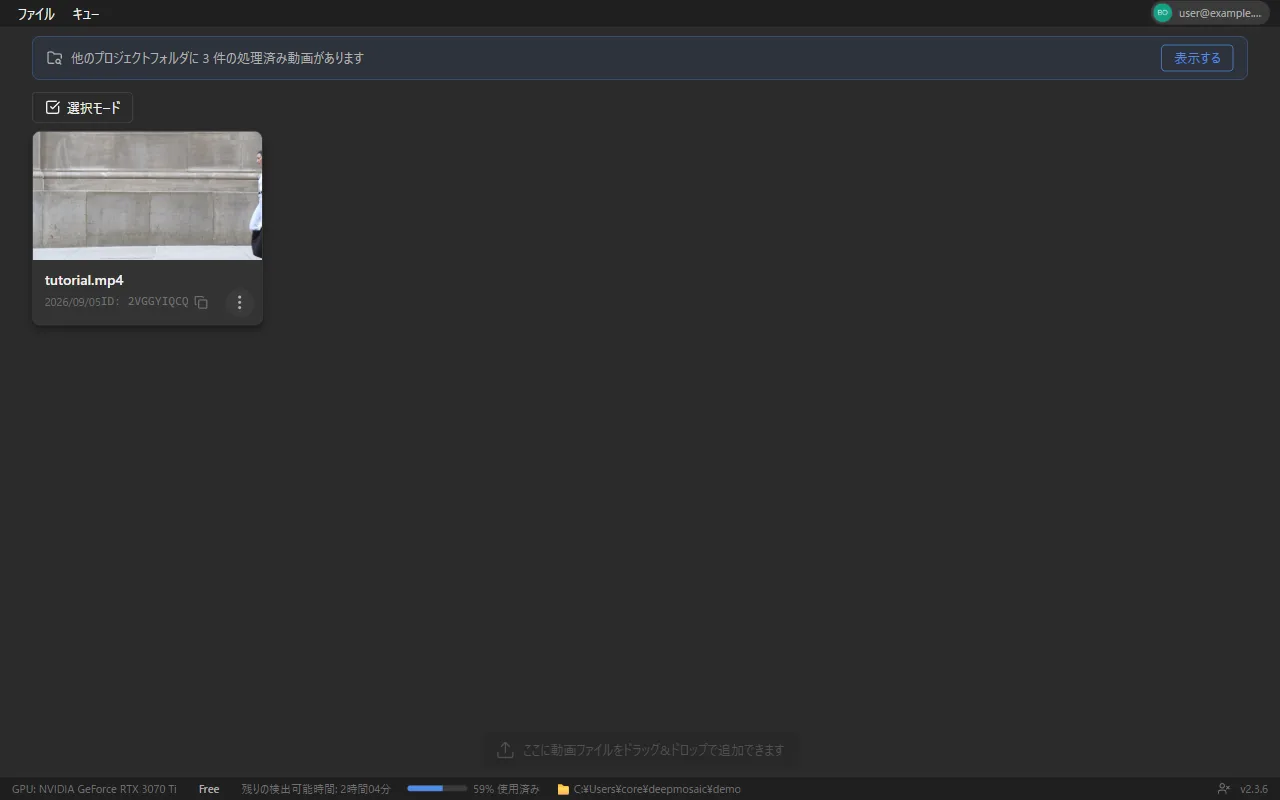
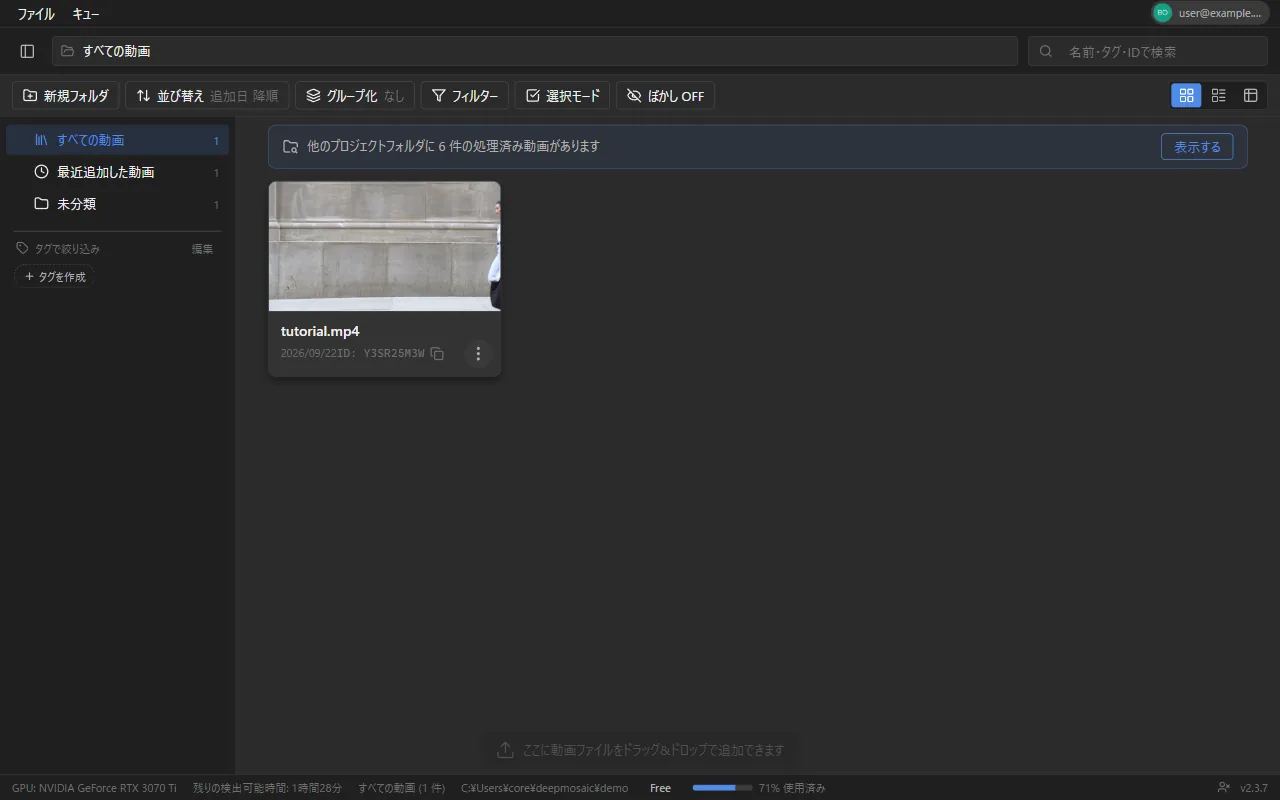
docs: T-383 HOME の再設計に合わせてスクリーンショットを再撮影し、表示形式の節を追加
- home / home-light / home-card-menu / home-select-mode を再撮影 (T-374〜T-382 の
  サイドバー・コマンドバー・ステータスバーが入った新 HOME)。
- home-tile (並べて表示) / home-detail (詳細) を新規追加。
- 第3章「動画の読み込み」に「表示形式」の節 (大アイコン / 並べて表示 / 詳細の定義表 +
  新規 2 枚の図) を追加。撮影 → optimize-images --apply → check-docs --fix-dims 済み。

diff --git a/_includes/docs/03-detect.html b/_includes/docs/03-detect.html
@@ -34,6 +34,30 @@ batch / queue は TICKET-SITE-44 で追加。定義表は `.kv` 部品 (src/app.
       <img src="/assets/img/screenshots/home.webp" alt="ホーム画面（処理済み動画一覧）" width="1280" height="800" loading="lazy" decoding="async" class="w-full rounded-[10px] border border-edge">
       <figcaption class="mt-2 text-[12.5px] text-ink-4">ホーム画面（処理済み動画一覧）。ドラッグ&amp;ドロップはこの画面が受け口になります</figcaption>
     </figure>
+    <h3 class="mt-6 text-[16px] font-bold text-ink">表示形式</h3>
+    <p>一覧の右上で表示形式を3つから選べます。選んだ表示形式は次回以降も引き継がれます。</p>
+    <div class="kv my-3.5" style="--kv-label-w: 200px">
+      <div class="kv-row">
+        <div class="kv-key">大アイコン</div>
+        <div class="kv-val">サムネイルを大きく並べる初期表示。内容を絵で見分けたいときに向きます</div>
+      </div>
+      <div class="kv-row kv-alt">
+        <div class="kv-key">並べて表示</div>
+        <div class="kv-val">1件ずつ横長の行にして、状態・解像度・ファイルサイズ・追加日を添えます</div>
+      </div>
+      <div class="kv-row">
+        <div class="kv-key">詳細</div>
+        <div class="kv-val">表形式。名前・状態・追加日・長さ・解像度・検出数・タグ・プロジェクトIDが列に並び、列見出しをクリックすると並べ替えられます</div>
+      </div>
+    </div>
+    <figure class="my-4">
+      <img src="/assets/img/screenshots/home-tile.webp" alt="「並べて表示」のホーム画面" width="1280" height="800" loading="lazy" decoding="async" class="w-full rounded-[10px] border border-edge">
+      <figcaption class="mt-2 text-[12.5px] text-ink-4">並べて表示。1件ずつ横並びで、状態や解像度を添えて確認できます</figcaption>
+    </figure>
+    <figure class="my-4">
+      <img src="/assets/img/screenshots/home-detail.webp" alt="「詳細」表示のホーム画面" width="1280" height="800" loading="lazy" decoding="async" class="w-full rounded-[10px] border border-edge">
+      <figcaption class="mt-2 text-[12.5px] text-ink-4">詳細。列見出しをクリックすると並べ替えられます</figcaption>
+    </figure>
     <h3 class="mt-6 text-[16px] font-bold text-ink">動画カードの操作</h3>
     <p>カードをクリックすると<a href="#edit-overview">編集ページ</a>が開きます。カード右上の {% include icon.html name="Menu" class="inline h-3.5 w-3.5 align-[-2px]" %} メニューには次の項目があります。</p>
     <div class="kv my-3.5" style="--kv-label-w: 200px">
